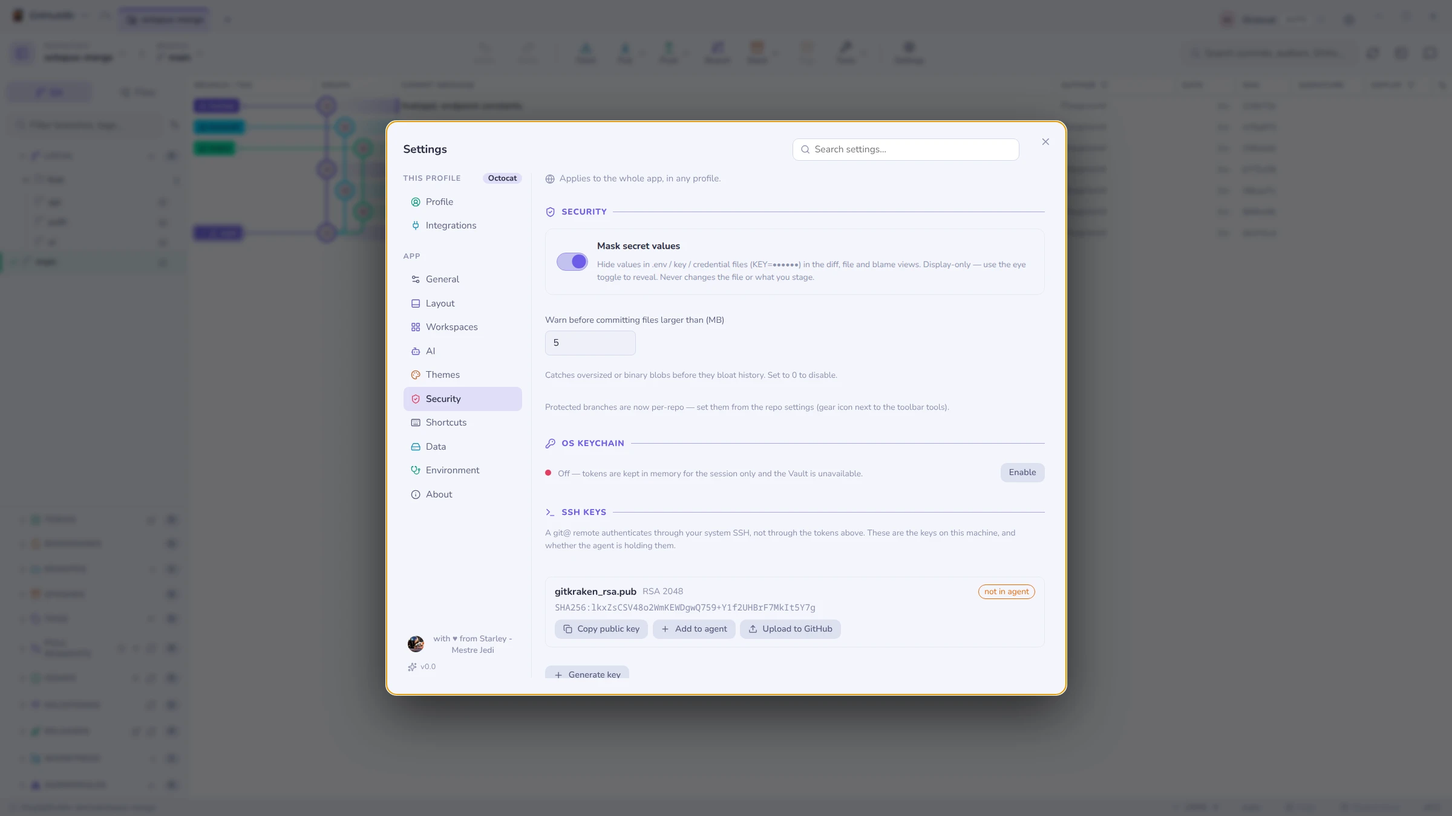
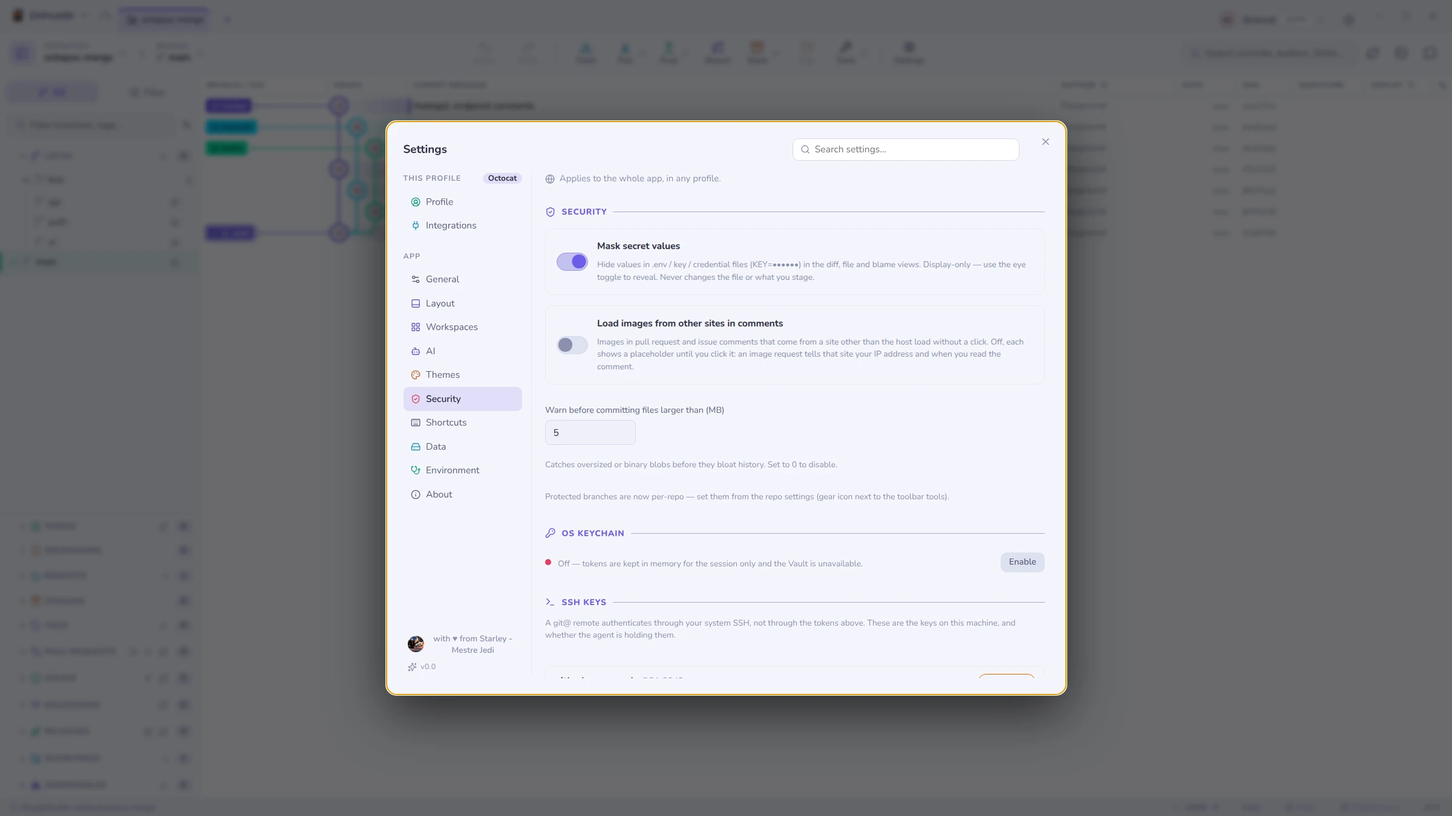
docs: document rendered comments and the comment image policy
The pull request page explains how comments are drawn, where the rendering comes from per
host, what a comment may contain and its limits; Security documents the image policy and
its setting; the "posted comments are not rendered" limit is gone from Writing comments.
English and pt-BR, with a new shot of a rendered comment and the Security page recaptured.

diff --git a/docs/help/pt-BR/pull-requests.md b/docs/help/pt-BR/pull-requests.md
@@ -3,8 +3,8 @@ title: Página de pull requests
 category: Sincronização e vários repositórios
 order: 57
 summary: Todos os pull requests de um repositório numa página — por estado, filtrados por autor, revisor, destino e CI — ‹ › para percorrer a lista filtrada de dentro de um PR, os commits dele, e comentários numa linha do diff.
-keywords: título referência cartão item de trabalho AB# número de issue dica pull requests lista página merge requests pr mr filtro autor revisor meus aguardando minha revisão revisão pedida ci falhando branch de destino rascunhos mesclados fechados busca triagem anterior próximo alt seta navegação checkout ir para branch de origem destino copiar nome da branch buscar fetch comentário de linha comentário inline comentário de revisão comentar na linha aba arquivos revisão de código aba commits lista de commits commits do pr histórico abrir commit copiar sha buscar branch do pr editor markdown barra formatação visualizar menção árvore de arquivos pastas visão em árvore visão de caminhos arquivos vistos marcar pasta como vista editar excluir apagar editado erro digitação
-source: 729c0829d4ded79d157edea6c162fa638d7b41e0
+keywords: título referência cartão item de trabalho AB# número de issue dica pull requests lista página merge requests pr mr filtro autor revisor meus aguardando minha revisão revisão pedida ci falhando branch de destino rascunhos mesclados fechados busca triagem anterior próximo alt seta navegação checkout ir para branch de origem destino copiar nome da branch buscar fetch comentário de linha comentário inline comentário de revisão comentar na linha aba arquivos revisão de código aba commits lista de commits commits do pr histórico abrir commit copiar sha buscar branch do pr editor markdown barra formatação visualizar menção árvore de arquivos pastas visão em árvore visão de caminhos arquivos vistos marcar pasta como vista editar excluir apagar editado erro digitação markdown renderizado comentários imagens pixel de rastreamento imagem bloqueada clique para carregar lista de tarefas tabela bloco de código
+source: a09d3c338b67dfa468bca330dec5a4d0b96200f5
 ---
 
 # Página de pull requests
@@ -335,6 +335,59 @@ requests que já estão na tela. A caixa de resposta mostra as ferramentas quand
 você clica nela, e envia com ⌘/Ctrl+Enter, já que o Enter agora começa uma
 linha nova. [Escrever comentários](writing-comments.md) tem os detalhes e os
 limites.
+
+## Como os comentários aparecem
+
+As pessoas escrevem comentários em Markdown, então um comentário mostrado como
+texto simples fica cheio de `**`, `- [ ]` e blocos de código. A descrição, a
+conversa e as threads de revisão (nas abas Conversa e Arquivos) são desenhadas
+como Markdown: títulos, listas e listas de tarefas, tabelas, citações, blocos
+de código destacados na linguagem que o bloco indica, links e imagens. A página
+de issue desenha o texto do mesmo jeito. `#123`, `AB#123`, `!123` e `@usuário`
+no texto continuam virando links, com o
+[cartão](#do-que-trata-um-123-ou-ab123) onde já tinham.
+
+![Um comentário renderizado: uma tabela, uma imagem de outro site retida atrás
+do aviso, e um bloco de código destacado](../../screenshots/pr-rendered-comment.webp)
+
+De onde vem o desenho:
+
+| Host | Renderizado por |
+|---|---|
+| GitHub, GitHub Enterprise Server | O próprio GitHub (`body_html`): menções e referências ligadas como no site, imagens passam pelo proxy de imagens do GitHub, e anexos privados trazem o endereço assinado |
+| GitLab, Forgejo, Azure DevOps, Bitbucket Data Center | O app, a partir do Markdown do comentário. Um link relativo aponta para dentro do repositório; no GitLab, `/uploads/…` aponta para dentro do projeto, como o GitLab faz |
+
+Um comentário é conteúdo de outras pessoas, então o que ele pode conter é
+restrito, e mais restrito do que nos seus próprios arquivos: uma lista explícita
+de tags, links e imagens só em `https:`, `http:` ou `mailto:`, nada de scripts,
+frames, formulários, SVG ou estilo inline, e links que nunca abrem dentro do
+app (vão para o seu navegador). A caixa de seleção de uma lista de tarefas
+aparece, mas não é clicável: marcá-la aqui não mudaria nada no host.
+
+**Imagens de outro site esperam um clique.** Carregar uma imagem é um pedido
+que o site por trás dela pode observar, com o seu IP e o momento em que você
+leu o comentário — qualquer pessoa que pode comentar pode pôr ali um pixel de
+rastreamento. Por isso só as imagens do próprio host carregam sozinhas: no
+github.com os anexos, `*.githubusercontent.com` (que inclui o proxy de imagens)
+e os assets dele; em qualquer outro host, o próprio endereço. Toda outra imagem
+mostra *Imagem de example.net — clique para carregar*, e o clique carrega só
+aquela imagem. **Configurações → Segurança → Carregar imagens de outros sites
+nos comentários** desliga isso; veja [Segurança](security.md#imagens-nos-comentários).
+
+O que não faz:
+
+- **Editar mostra o texto como foi escrito.** **Editar** continua abrindo o
+  Markdown, e uma edição salva é desenhada pelo app até a página ler o pull
+  request de novo (no GitHub, a partir daí, pelo GitHub).
+- **Vídeos** num comentário do GitHub aparecem como link para o arquivo, não
+  como player.
+- **Extensões só do GitHub** que o app desenha sozinho (nos outros hosts) não
+  aparecem: sem atalhos de emoji, sem diagramas Mermaid, sem o estilo dos
+  alertas, e fórmulas ficam como texto.
+- **O código só é destacado quando o bloco indica a linguagem.** Adivinhar a
+  linguagem passaria todas as gramáticas por todos os blocos da página.
+- **Mensagens de commit** na aba Commits continuam em texto simples: o git não
+  renderiza Markdown, e os hosts também não.
 
 ## Editar e excluir seus comentários
 

diff --git a/docs/help/pull-requests.md b/docs/help/pull-requests.md
@@ -3,7 +3,7 @@ title: Pull requests page
 category: Sync & many repos
 order: 57
 summary: Every pull request of a repository on one page — by state, filtered by author, reviewer, target and CI — ‹ › to walk the filtered list from inside a PR, its commits, and comments on a line of its diff.
-keywords: reference title hover card work item AB# issue number tooltip pull requests list page merge requests pr mr filter author reviewer mine awaiting my review review requested ci failing target branch drafts merged closed search triage previous next alt arrow navigation checkout branch go to source target branch copy branch name fetch line comment inline comment review comment diff comment comment on line files tab code review commits tab commit list pr commits commit history open commit copy sha fetch pr branch markdown editor toolbar preview mention file tree folder tree view path view viewed files mark folder viewed edit delete remove edited typo
+keywords: reference title hover card work item AB# issue number tooltip pull requests list page merge requests pr mr filter author reviewer mine awaiting my review review requested ci failing target branch drafts merged closed search triage previous next alt arrow navigation checkout branch go to source target branch copy branch name fetch line comment inline comment review comment diff comment comment on line files tab code review commits tab commit list pr commits commit history open commit copy sha fetch pr branch markdown editor toolbar preview mention file tree folder tree view path view viewed files mark folder viewed edit delete remove edited typo rendered markdown comments images tracking pixel blocked image click to load task list table code block
 ---
 
 # Pull requests page
@@ -319,6 +319,57 @@ formatting toolbar with GitHub's shortcuts, lists that continue on Enter, and
 A reply box shows its tools once you click into it, and sends with
 ⌘/Ctrl+Enter, since Enter now starts a new line. [Writing comments](writing-comments.md)
 has the details and the limits.
+
+## How comments are shown
+
+People write comments in Markdown, so a comment shown as plain text is full of
+`**`, `- [ ]` and code fences. The description, the conversation and the review
+threads (in the Conversation and Files tabs) are drawn as Markdown: headings,
+lists and task lists, tables, quotes, code blocks highlighted in the language
+the fence names, links and images. The issue page draws its text the same way.
+`#123`, `AB#123`, `!123` and `@user` in the text still become links, with the
+[card](#what-a-123-or-ab123-is-about) where they had one.
+
+![A rendered comment: a table, an image from another site held back behind its
+placeholder, and a highlighted code block](../screenshots/pr-rendered-comment.webp)
+
+Where the drawing comes from:
+
+| Host | Rendered by |
+|---|---|
+| GitHub, GitHub Enterprise Server | GitHub itself (`body_html`): mentions and references are linked as on the website, images go through GitHub's image proxy, and private attachments carry their signed address |
+| GitLab, Forgejo, Azure DevOps, Bitbucket Data Center | The app, from the comment's Markdown. A relative link points into the repository; on GitLab, `/uploads/…` points into the project, as GitLab does |
+
+A comment is other people's content, so what it may contain is narrow, and
+narrower than for your own files: an explicit list of tags, links and images on
+`https:`, `http:` or `mailto:` only, no scripts, frames, forms, SVG or inline
+style, and links that never open inside the app (they go to your browser). A
+checkbox in a task list is shown, not clickable: ticking it here would change
+nothing on the host.
+
+**Images from another site wait for a click.** Loading an image is a request
+the site behind it can watch, with your IP address and the moment you read the
+comment — anyone who can comment can put a tracking pixel there. So only images
+from the host itself load on their own: on github.com its attachments,
+`*.githubusercontent.com` (which includes its image proxy) and its assets; on
+any other host, its own address. Every other image shows *Image from
+example.net — click to load*, and the click loads that one image. **Settings →
+Security → Load images from other sites in comments** turns that off; see
+[Security](security.md#images-in-comments).
+
+What it does not do:
+
+- **Editing shows the text as written.** **Edit** still opens the Markdown, and
+  a saved edit is drawn by the app until the page reads the pull request again
+  (on GitHub, then by GitHub).
+- **Videos** in a GitHub comment show as a link to the file, not a player.
+- **GitHub-only extensions** the app draws itself (on other hosts) are not
+  there: no emoji shortcodes, no Mermaid diagrams, no alerts styling, and math
+  stays as text.
+- **Code is highlighted only when the fence names its language.** Guessing the
+  language would run every grammar over every block on the page.
+- **Commit messages** in the Commits tab stay plain text: git does not render
+  Markdown, and neither do the hosts.
 
 ## Editing and deleting your comments
 

diff --git a/README.md b/README.md
@@ -136,7 +136,7 @@ git actually is.
 | **[Untracked-branch repair](docs/help/syncing.md)** | A pull that stops on "no tracking information" offers the fix as a button — link the branch to its remote, or push it if the remote has never seen it. |
 | **[Pull requests](docs/help/hosting.md)** | Create on GitHub, GitLab, Bitbucket, Azure DevOps and Forgejo, with [reviewers, assignees and labels](docs/help/hosting.md#reviewers-assignees-and-labels) picked from the host's own lists where the host has them; the new one is [listed in the app](docs/help/hosting.md#after-you-press-create), and the browser opens only if you ask. Review on GitHub, GitLab, Forgejo, Azure DevOps and Bitbucket Data Center in a [page of its own](docs/help/hosting.md#reviewing--github-and-gitlab), on the repository's tab or group chip: conversation, each file's diff, checks, an AI review of the host's diff, and a sidebar with reviewers and their decisions, labels, branches and size. A 👁 marks the ones [waiting for your review](docs/help/hosting.md#waiting-for-your-review). Each profile [links its own account](docs/help/hosting.md#tokens) — a token, or a login git's credential helper or the GitHub CLI already holds. |
 | **[Preview a pull request](docs/help/pr-preview.md)** | Run someone else's pull request on your machine — forks included, on any host — without committing anything. |
-| **[Pull requests page](docs/help/pull-requests.md)** | Every pull request of a repository on one page — open, drafts, merged, closed — filtered by author (*Me* first), reviewer (*review requested from me*), target branch and failing CI; inside a pull request, ‹ › and Alt+← / Alt+→ walk the filtered list it came from, and its branch names [check the branch out](docs/help/pull-requests.md#going-to-a-pull-requests-branch) — fetching it when only the server has it; a [Commits tab](docs/help/pull-requests.md#commits) opens each commit in the graph or fetches the branch it is on; its files read [as a tree](docs/help/pull-requests.md#reading-the-files), ticked off as viewed by file or by folder; any line of its diff takes a [comment of its own](docs/help/pull-requests.md#commenting-on-a-line); your own comments can be [edited or deleted](docs/help/pull-requests.md#editing-and-deleting-your-comments) in place; and pointing at a `#123` or `AB#123` shows [its title and state](docs/help/pull-requests.md#what-a-123-or-ab123-is-about). |
+| **[Pull requests page](docs/help/pull-requests.md)** | Every pull request of a repository on one page — open, drafts, merged, closed — filtered by author (*Me* first), reviewer (*review requested from me*), target branch and failing CI; inside a pull request, ‹ › and Alt+← / Alt+→ walk the filtered list it came from, and its branch names [check the branch out](docs/help/pull-requests.md#going-to-a-pull-requests-branch) — fetching it when only the server has it; a [Commits tab](docs/help/pull-requests.md#commits) opens each commit in the graph or fetches the branch it is on; its files read [as a tree](docs/help/pull-requests.md#reading-the-files), ticked off as viewed by file or by folder; any line of its diff takes a [comment of its own](docs/help/pull-requests.md#commenting-on-a-line); your own comments can be [edited or deleted](docs/help/pull-requests.md#editing-and-deleting-your-comments) in place; comments are [drawn as Markdown](docs/help/pull-requests.md#how-comments-are-shown), with images from other sites held back until clicked; and pointing at a `#123` or `AB#123` shows [its title and state](docs/help/pull-requests.md#what-a-123-or-ab123-is-about). |
 | **[Writing comments](docs/help/writing-comments.md)** | Every comment box — pull requests, issues, thread replies, line comments, new PR and issue descriptions — is a Markdown editor with Write / Preview, GitHub's toolbar and shortcuts, lists that continue on Enter, and @mention / #reference completion. |
 | **[Issues, milestones & notifications](docs/help/hosting.md#issues-milestones-releases--github-and-forgejo)** | On GitHub and Forgejo: issues with a *create a branch for this issue*, milestones, releases, and the [notifications inbox](docs/help/hosting.md#notifications--github-and-forgejo) behind the toolbar bell. |
 | **[Azure Pipelines checks and logs](docs/help/hosting.md#reviewing--github-and-gitlab)** | Build-validation policies appear alongside PR statuses. Read failed tasks or job logs from the Checks tab. |

diff --git a/docs/help/pt-BR/security.md b/docs/help/pt-BR/security.md
@@ -3,7 +3,7 @@ title: Segurança e segredos
 category: Segurança
 order: 70
 summary: Mascaramento, proteções, o keychain — e o que o Gitcito se recusa a fazer.
-keywords: segurança security segredos secrets mascaramento masking keychain safeStorage tokens branch protegida arquivo grande proteção guard privacidade importar exportar configurações partes traduzir caminhos outro computador mesclar perfis substituir perfis escolher o que exportar backup completo outro computador para o time manifesto
+keywords: segurança security imagens nos comentários pixel de rastreamento endereço ip imagens de terceiros clique para carregar segredos secrets mascaramento masking keychain safeStorage tokens branch protegida arquivo grande proteção guard privacidade importar exportar configurações partes traduzir caminhos outro computador mesclar perfis substituir perfis escolher o que exportar backup completo outro computador para o time manifesto
 ---
 
 # Segurança e segredos
@@ -37,6 +37,37 @@ tratados como templates, não como segredos.
 | **Lixo de build** | Commitar `xcuserdata/`, `DerivedData/` ou um `.DS_Store` — com o mesmo *Ignorar e parar de rastrear* de um clique |
 | **Branch protegida** | Ao commitar direto na `main`/`master`, ou dar force push numa delas |
 | **Segredos rastreados** | Ao dar push num repositório que *rastreia* um arquivo de segredo — avisado uma vez por sessão |
+
+## Imagens nos comentários
+
+Comentários de pull requests e issues são escritos por outras pessoas, e uma
+imagem num deles é um pedido que a sua máquina faz ao site que o autor
+escolheu. Esse site fica sabendo o seu IP e quando você leu o comentário — um
+pixel de rastreamento não precisa de nada além do direito de comentar.
+
+Por isso o app carrega sozinho só as imagens do próprio host: no github.com os
+anexos, `*.githubusercontent.com` (que inclui o proxy que o GitHub põe na
+frente de toda imagem de fora na renderização dele) e os assets; em qualquer
+outro host, o próprio endereço web, por https. Toda outra imagem mostra um aviso
+com o domínio dela, e só é pedida quando você clica — aquela imagem, uma vez. O
+pedido nunca manda `Referer`.
+
+| Configuração | O que faz |
+|---|---|
+| **Carregar imagens de outros sites nos comentários** (desligada por padrão) | Imagens de qualquer site carregam sem clique, como no site do host |
+
+Os limites:
+
+- **O host continua vendo você.** Uma imagem do próprio host — e, no GitHub,
+  qualquer imagem pelo proxy dele — é um pedido ao host, que já sabe que esta
+  conta está lendo o pull request.
+- **Só as páginas de pull request e de issue.** Imagens num arquivo Markdown do
+  repositório, numa nota de release ou na wiki são conteúdo do seu próprio
+  repositório e carregam como antes.
+- **Um link não é uma imagem.** Clicar num link de um comentário abre o link no
+  seu navegador, como qualquer link do app.
+
+Como o resto de um comentário é restringido está em [Pull requests](pull-requests.md#como-os-comentários-aparecem).
 
 ## O keychain do sistema
 

diff --git a/docs/help/security.md b/docs/help/security.md
@@ -3,7 +3,7 @@ title: Security & secrets
 category: Security
 order: 70
 summary: Masking, guards, the keychain — and what Gitcito refuses to do.
-keywords: security secrets masking keychain safeStorage tokens protected branch large file guard privacy import export settings unreadable backup parts translate paths remap another computer new machine merge profiles replace profiles choose what to export full backup another computer for the team manifest
+keywords: security secrets images in comments tracking pixel ip address third-party images click to load masking keychain safeStorage tokens protected branch large file guard privacy import export settings unreadable backup parts translate paths remap another computer new machine merge profiles replace profiles choose what to export full backup another computer for the team manifest
 ---
 
 # Security & secrets
@@ -36,6 +36,37 @@ stage. An eye toggle reveals them per view. `.env.example`, `.sample` and
 | **Build noise** | Committing `xcuserdata/`, `DerivedData/` or a `.DS_Store` — with the same one-click *Ignore & untrack* |
 | **Protected branch** | Committing straight to `main`/`master`, or force-pushing one |
 | **Tracked secrets** | Pushing a repository that *tracks* a secret file — warned once per session |
+
+## Images in comments
+
+Pull request and issue comments are written by other people, and an image in
+one is a request your machine makes to whatever site the author chose. That
+site learns your IP address and when you read the comment — a tracking pixel
+needs nothing more than the right to comment.
+
+So the app loads, on its own, only images from the host itself: on github.com
+its attachments, `*.githubusercontent.com` (which includes the proxy GitHub
+puts in front of every outside image in its own rendering) and its assets; on
+any other host, its own web address, over https. Any other image shows a
+placeholder naming its domain, and is requested only when you click it — that
+one image, once. The request never sends a `Referer`.
+
+| Setting | What it does |
+|---|---|
+| **Load images from other sites in comments** (off by default) | Images from any site load without a click, as on the host's website |
+
+The limits:
+
+- **The host still sees you.** An image from the host itself — and on GitHub,
+  any image through its proxy — is a request to the host, which already knows
+  this account is reading the pull request.
+- **Only the pull request and issue pages.** Images in a Markdown file of the
+  repository, in a release note or in the wiki are your repository's own
+  content and load as before.
+- **A link is not an image.** Clicking a link in a comment opens it in your
+  browser, as any link in the app does.
+
+How the rest of a comment is restricted is in [Pull requests](pull-requests.md#how-comments-are-shown).
 
 ## The AppImage and paths that outlive it
 

diff --git a/notes/backlog.md b/notes/backlog.md
@@ -13,6 +13,7 @@ Legenda: 🔴 urgente · 🟠 importante · 🟡 quando der · ⏳ esperando tes
 | ⏳ | **Rollback de verdade** (v4.51.0) | Num build empacotado, voltar da v4.52 para a v4.51: deve aparecer o aviso "Você voltou…", a v4.52 não deve mais ser oferecida e, ao atualizar de novo, deve vir a pergunta "restaurar ou manter". Os ajustes desconhecidos devem ser preservados |
 | ⏳ | **Azure Pipelines**: validação de build como check e log do build | Testar num PR do Azure com validação de build que falhou e um token com *Build: Read* |
 | 🟡 | **Ícone `.icns` no macOS**, montado por script | Conferir no Finder e no Dock |
+| ⏳ | **Comentários renderizados** (Markdown, imagens de terceiros sob clique) | Conferir num PR real do GitHub (`body_html`: anexo privado, imagem via camo, bloco de código, `#123` com cartão) e num MR do GitLab com `/uploads/` |
 
 ---
 
@@ -34,7 +35,6 @@ Legenda: 🔴 urgente · 🟠 importante · 🟡 quando der · ⏳ esperando tes
 | | Item | Notas |
 |---|---|---|
 | 🟠 | **Endurecer a release.** Sem assinatura, quem controlar a conta ou o workflow distribui código para todos pela atualização automática | Fixar as actions por SHA (hoje `@v4`); fuses do Electron (integridade do asar, `RunAsNode` desligado). O painel de testes usa o `RunAsNode` como plano B, então o fuse tem custo. As tags `v*` já estão protegidas |
-| 🟡 | **Imagens remotas em PRs e issues** revelam IP e horário a terceiros (`img-src https:`) | Proxy ou carregar sob demanda |
 | 🟡 | **Cofre no `basic_text`** continua gravando no armazenamento básico | Um modo só de sessão exigiria estado novo na tela |
 | 🟡 | **`echarts`/`uuid` via `pptx-preview`** (moderadas) | Risco residual: XSS só com `.pptx` com gráfico, mitigado pelo CSP. A correção exige major dentro do `pptx-preview` |
 | 🟡 | **`sandbox: false` no renderer** | Um XSS no renderer teria acesso à ponte do app. Mudança grande, para longo prazo |

diff --git a/docs/help/pt-BR/writing-comments.md b/docs/help/pt-BR/writing-comments.md
@@ -4,7 +4,7 @@ category: Sincronização e vários repositórios
 order: 57.5
 summary: O editor de Markdown por trás de toda caixa de comentário — Escrever / Visualizar, uma barra de formatação com os atalhos do GitHub, listas que continuam no Enter e sugestões de @menção / #referência.
 keywords: editor markdown caixa de comentário barra de ferramentas negrito itálico código link citação título lista com marcadores numerada tarefas checklist visualizar escrever atalho menção arroba referência cerquilha número da issue autocompletar resposta descrição do pull request corpo da issue
-source: 09bca660ae78b5922c3a7306f4001d893844c75b
+source: 3d8bb898dd73722496fb232dcd59c4e4c477c3ec
 ---
 
 # Escrever comentários
@@ -125,9 +125,11 @@ atrás do diálogo.
 - **A visualização é o renderizador do app.** Mostra o Markdown como o app
   desenha; a renderização do host pode diferir em detalhes (extensões próprias
   do GitHub, menções viradas em links).
-- **Comentários enviados não são renderizados.** Depois de enviado, um
-  comentário aparece na conversa do app como texto simples, com os links
-  clicáveis — a formatação Markdown só é desenhada na visualização e no site do
-  host.
+- **A visualização e o comentário enviado podem diferir.** Depois de enviado,
+  o comentário é desenhado nas páginas de pull request e de issue pelo próprio
+  renderizador do host no GitHub, e por um perfil mais restrito em todo lugar
+  ([como os comentários aparecem](pull-requests.md#como-os-comentários-aparecem)):
+  uma imagem de outro site espera um clique ali, e uma extensão do GitHub que a
+  visualização não conhece pode aparecer diferente.
 - Os atalhos são fixos: não aparecem nas configurações de atalhos e não seguem
   uma troca feita lá.

diff --git a/docs/help/writing-comments.md b/docs/help/writing-comments.md
@@ -122,8 +122,10 @@ the dialog.
 - **Preview is the app's renderer.** It shows Markdown as the app draws it; the
   host's own rendering may differ in details (GitHub-specific extensions,
   mentions turned into links).
-- **Posted comments are not rendered.** Once sent, a comment shows in the app's
-  conversation as plain text, with links made clickable — Markdown formatting is
-  only drawn in Preview and on the host's website.
+- **Preview and the posted comment can differ.** Once sent, a comment is drawn
+  on the pull request and issue pages by the host's own renderer on GitHub, and
+  by a stricter profile everywhere ([how comments are shown](pull-requests.md#how-comments-are-shown)):
+  an image from another site waits for a click there, and a GitHub extension
+  Preview does not know may look different.
 - The shortcuts are fixed: they are not in the shortcuts settings, and do not
   follow a rebinding there.
